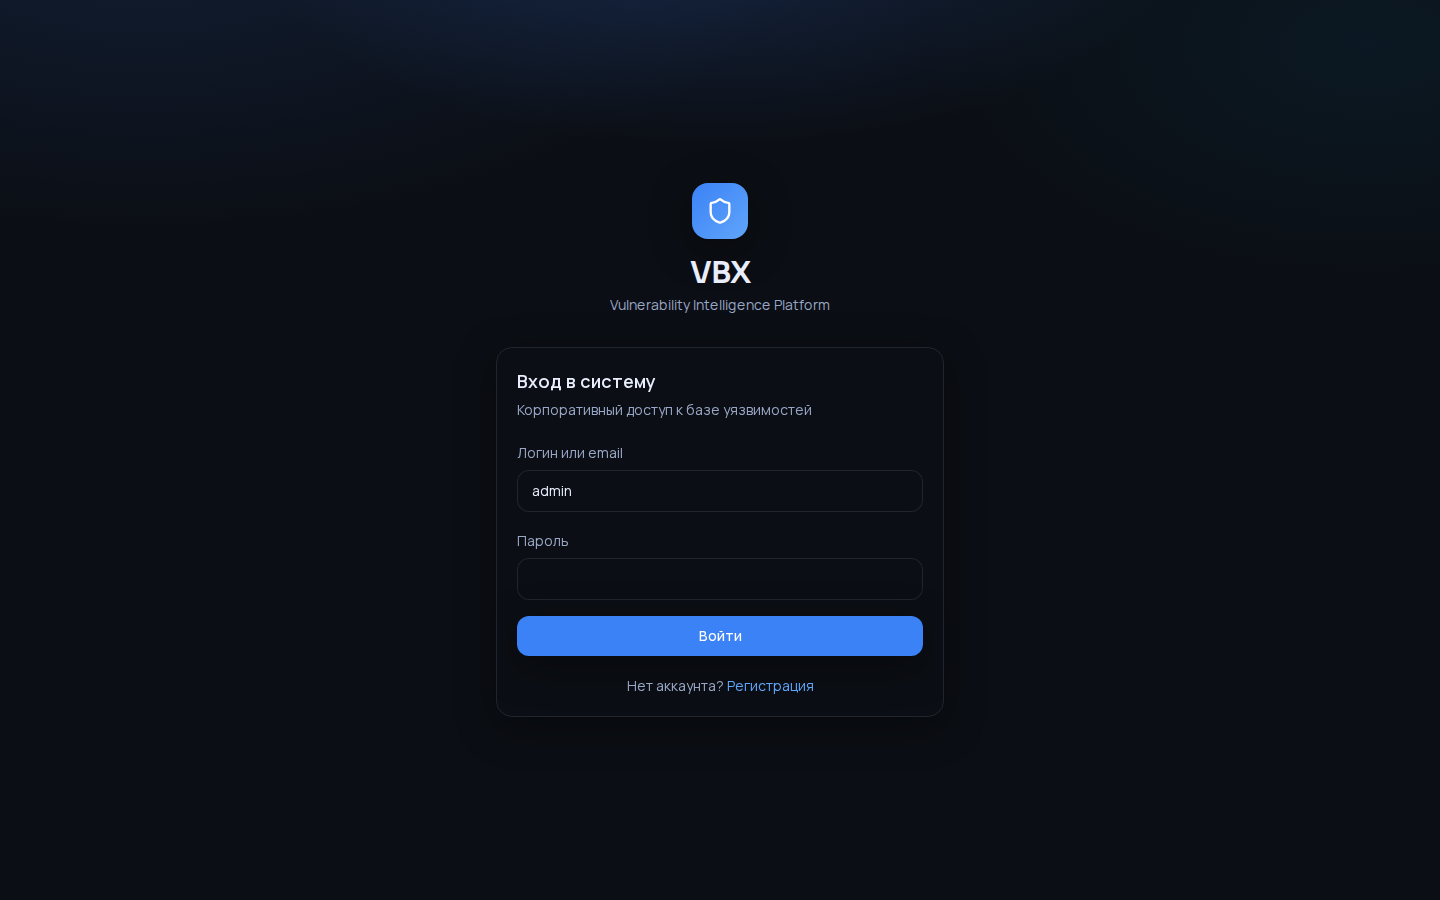
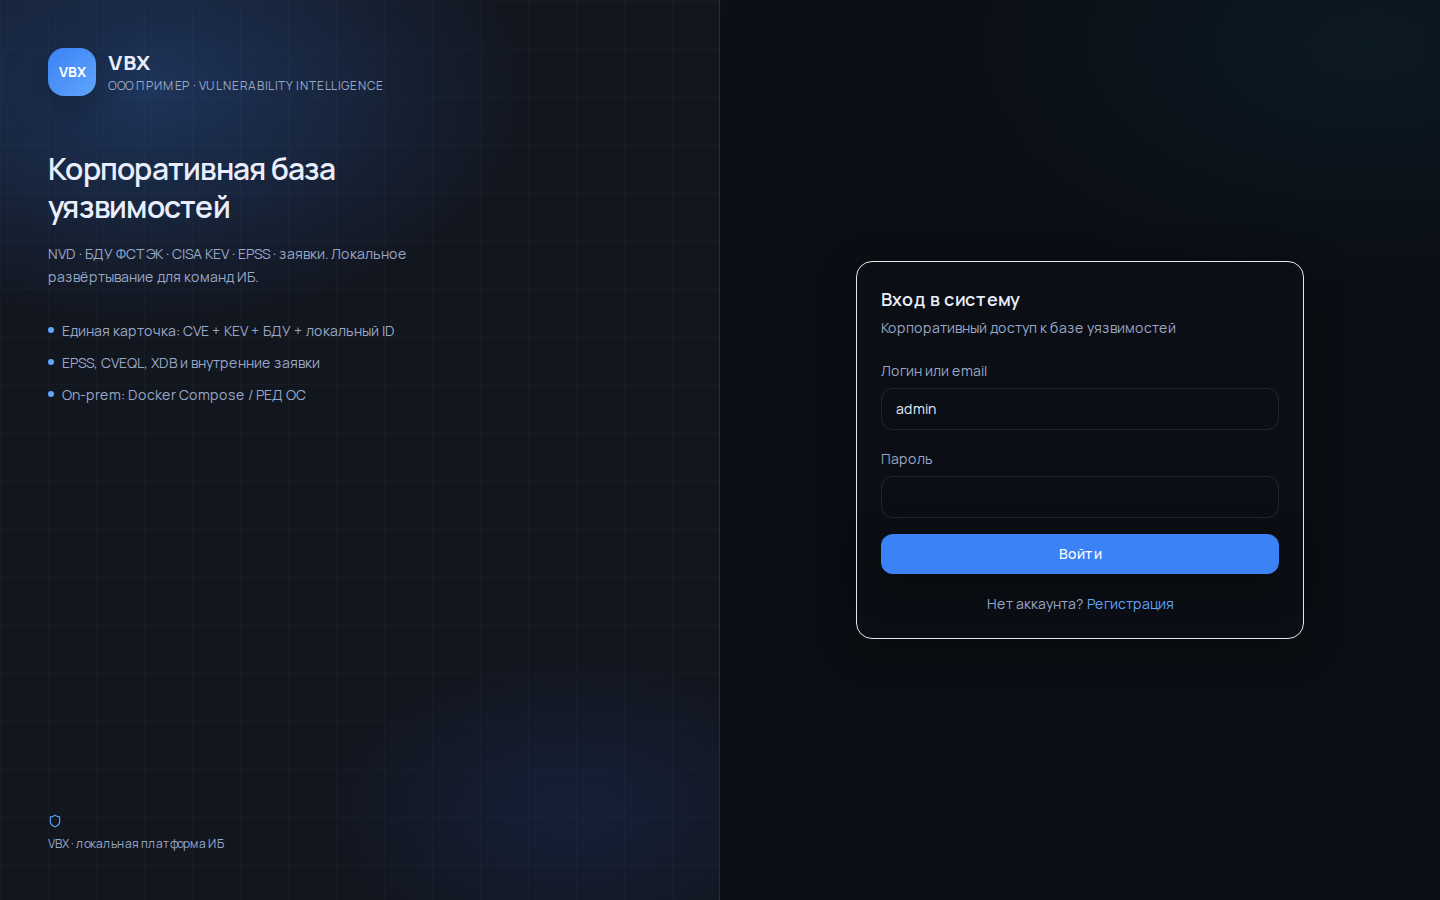
docs(w9): refresh screenshots for login, branding, system, local
Update README gallery with W9 pages and mark W9 DoD checklist done.

diff --git a/docs/agents/W9_vulnex_ui_ops.md b/docs/agents/W9_vulnex_ui_ops.md
@@ -27,11 +27,11 @@
 - Ломать `VBX_*` env
 
 ## DoD checklist
-- [ ] Compose up; `/health` + `/ready` ok
-- [ ] Login split + branding влияет на login copy
-- [ ] System metrics endpoint + UI
-- [ ] Создаётся LOCAL id, виден в Search
-- [ ] CVE detail NVD/BDU tabs
-- [ ] BDU URL sync работает (хотя бы XML)
-- [ ] pytest зелёный на затронутых тестах
-- [ ] Скриншоты обновлены
+- [x] Compose up; `/health` + `/ready` ok
+- [x] Login split + branding влияет на login copy
+- [x] System metrics endpoint + UI
+- [x] Создаётся LOCAL id, виден в Search
+- [x] CVE detail NVD/BDU tabs
+- [x] BDU URL sync работает (хотя бы XML)
+- [x] pytest зелёный на затронутых тестах
+- [x] Скриншоты обновлены
